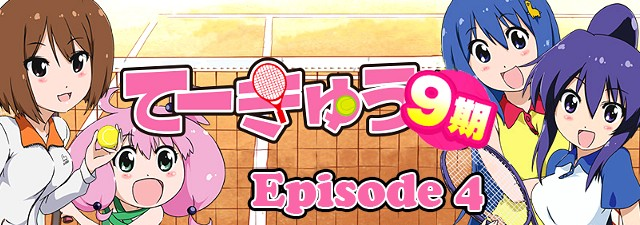
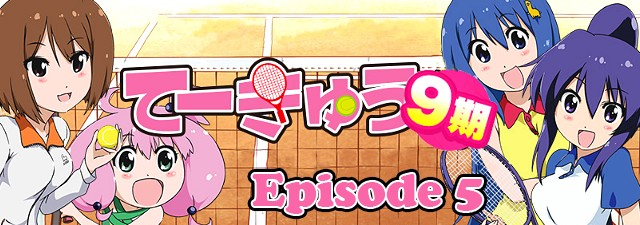
new release

Changed region(s): [[0.6875, 0.7467, 0.7812, 0.9644]]

diff --git a/2017-08-11.html b/2017-08-11.html
@@ -1,7 +1,7 @@
-<!DOCTYPE html>
+<!DOCTYPE html>
 <html lang="fr-FR">
 	<head>
-		<title>Teekyuu Saison 9 | Nobluesky Fansub</title>
+		<title>Teekyuu Saison 9 Ep 5 vostfr | Nobluesky Fansub</title>
 		<meta charset="utf-8" />
 		<meta name=viewport content="width=980">
 		<link rel="Shortcut Icon" type="image/x-icon" href="favicon.ico" />
@@ -37,42 +37,36 @@
 	<div id="article">
 		<div id="content">
 			<div class="post">
-				<h1 class="title">Teekyuu Saison 9</h1>
-				<div style="clear: both;">&nbsp;</div>
+				<h1 class="title">Teekyuu Saison 9 Ep 5 vostfr</h1>
+				<p class="meta"><span class="date">11 Août 2017</span><span class="posted">Posté par <a href="about.html#nobluesky">Nobluesky</a></span></p>
 				<div style="clear: both;">&nbsp;</div>
 				<div class="entry">
-					<img class="post-images" src="images/2017/teekyuu9.jpg" alt="" />
-					<p>12 épisodes de 2 min, Juillet 2017</p>
-					<p>Suite de la Saison 8</p>
-					<p>On ne présente plus cette série WTF qui revient encore et encore !</p>
+					<img class="post-images" src="images/2017/news8.jpg" alt="" />
+					<p>Bonjour à nos fidèles amateurs de gags !</p>
+					<p>Aujourd'hui, c'est la visite des clubs de l'école au programme. Et bien sûr, rien de bien normal dans ce tour d'horizon, n'oubliez pas à qui vous avez affaire :P</p>
+					<p>Merci à Yohan pour la relecture de cet épisode, lui aussi est au régime WTF forcé^^</p>
+					<p>Afin de vous rassurer, je n'oublie pas Sohryuden dont la synchronisation avance doucement dans un coin du PC. Selon toute vraisemblance, il devrait sortir dans les quatre semaines à venir, estimation au doigt mouillé à la louche !</p>
+					<p>À très bientôt pour la suite, et pour votre santé regardez un Teekyuu par semaine pour entretenir l'hilarité frapadingue.</p>
 					<h3>Téléchargements et streaming</h3>
-					Sur serveur :
-					<p class="links dl"><a href="http://ddl.nobluesub.com/teekyuu9.html" class="button-dl">Dédié</a></p>
-					<br>
-					Episode 01 :
-					<p class="links dl"><a href="http://jheberg.net/captcha/nobluesub-teekyuu-s9-01-hd-1280x720-x264/" class="button-dl">Jheberg</a></p>&nbsp; | &nbsp;
-					<p class="links dl"><a href="https://rutube.ru/video/c092a46987df527be2b77b3d520d1b5c/" class="button-dl">Rutube</a></p>&nbsp; | &nbsp;
-					<p class="links dl"><a href="https://mega.nz/#!2RszQYYY!QrL9GeKnNjek7_Wv1Qck5D8R2AaQArLwywk220u23wU" class="button-dl">Mega</a></p>
-					<br>
-					Episode 02 :
-					<p class="links dl"><a href="http://jheberg.net/captcha/nobluesub-teekyuu-s9-02-hd-1280x720-x264/" class="button-dl">Jheberg</a></p>&nbsp; | &nbsp;
-					<p class="links dl"><a href="https://rutube.ru/video/340ba2fe8cb65cd33588dcf618bb8770/" class="button-dl">Rutube</a></p>&nbsp; | &nbsp;
-					<p class="links dl"><a href="https://mega.nz/#!nJVQSJ5R!5vzscZLLfNFoNFEaGFLgPKmu4FY-VMCsdZlforc7N6I" class="button-dl">Mega</a></p>
-					<br>
-					Episode 03 :
-					<p class="links dl"><a href="http://jheberg.net/captcha/nobluesub-teekyuu-s9-03-hd-1280x720-x264/" class="button-dl">Jheberg</a></p>&nbsp; | &nbsp;
-					<p class="links dl"><a href="https://rutube.ru/video/8187fda3099762fe41605c6bb77fcb3a/" class="button-dl">Rutube</a></p>&nbsp; | &nbsp;
-					<p class="links dl"><a href="https://mega.nz/#!CdMUTDJQ!s4u8WTS0eljHrsXpDQFDb1lmnJkN_5WGocgsoTcZepk" class="button-dl">Mega</a></p>
-					<br>
-					Episode 04 :
-					<p class="links dl"><a href="http://jheberg.net/captcha/nobluesub-teekyuu-s9-04-hd-1280x720-x264/" class="button-dl">Jheberg</a></p>&nbsp; | &nbsp;
-					<p class="links dl"><a href="https://rutube.ru/video/93c05995e3a593766b2a73a36f2df73b/" class="button-dl">Rutube</a></p>&nbsp; | &nbsp;
-					<p class="links dl"><a href="https://mega.nz/#!iAlghRxT!g0bF8Dh81hWklqpHIhgW5J9POa75b7wtqpNtCliELnY" class="button-dl">Mega</a></p>
-					<br>
-					Episode 05 :
+					<p class="links dl"><a href="http://ddl.nobluesub.com/teekyuu9.html" class="button-dl">Dédié</a></p>&nbsp; | &nbsp;
 					<p class="links dl"><a href="http://jheberg.net/captcha/nobluesub-teekyuu-s9-05-hd-1280x720-x264/" class="button-dl">Jheberg</a></p>&nbsp; | &nbsp;
 					<p class="links dl"><a href="https://rutube.ru/video/63c43b9879e9030336d4e76e233691e8/" class="button-dl">Rutube</a></p>&nbsp; | &nbsp;
 					<p class="links dl"><a href="https://mega.nz/#!XJcGnB4b!PxCiSq1XVHiC-DlPx_g1pZD2jfIF9_sZZ19WQaeDGAQ" class="button-dl">Mega</a></p>
+					<h3>Commentaires</h3>
+					<div id="disqus_thread"></div>
+					<script type="text/javascript">
+						/* * * CONFIGURATION VARIABLES: EDIT BEFORE PASTING INTO YOUR WEBPAGE * * */
+						var disqus_shortname = 'noblueskyfansub'; // required: replace example with your forum shortname
+
+						/* * * DON'T EDIT BELOW THIS LINE * * */
+						(function() {
+							var dsq = document.createElement('script'); dsq.type = 'text/javascript'; dsq.async = true;
+							dsq.src = '//' + disqus_shortname + '.disqus.com/embed.js';
+							(document.getElementsByTagName('head')[0] || document.getElementsByTagName('body')[0]).appendChild(dsq);
+						})();
+					</script>
+					<noscript>Activez javascript pour voir les commentaires.</noscript>
+					<a href="http://disqus.com" class="dsq-brlink">commentaires propulsés par <span class="logo-disqus">Disqus</span></a>
 				</div>
 			</div>
 			<div style="clear: both;">&nbsp;</div>

diff --git a/index.html b/index.html
@@ -35,7 +35,7 @@
 <div id="page-wrapper">
 	<div class="slider-wrapper theme-default">
 		<div id="slider" class="nivoSlider">
-			<a href="2017-08-06.html"><img src="images/img02.jpg" alt="" /></a><a href="2017-06-28.html"><img src="images/img01.jpg" alt="" /></a>
+			<a href="2017-08-11.html"><img src="images/img02.jpg" alt="" /></a><a href="2017-06-28.html"><img src="images/img01.jpg" alt="" /></a>
 		</div>
 	</div>
 <script type="text/javascript">
@@ -59,6 +59,20 @@
 				<div style="clear: both;">&nbsp;</div>
 				<div class="entry">
 					<p>Bienvenue sur le site de la Nobluesky Fansub !</p>
+				</div>
+			</div>
+			<div class="post">
+				<h1 class="title"><a href="2017-08-11.html">Teekyuu Saison 9 Ep 5 vostfr</a></h1>
+				<p class="meta"><span class="date">11 Août 2017</span><span class="posted">Posté par <a href="about.html#nobluesky">Nobluesky</a></span></p>
+				<p class="comcount"><a href="https://nobluesub.com/2017-08-11.html#disqus_thread">Commentaires</a></p>
+				<div style="clear: both;">&nbsp;</div>
+				<div class="entry">
+					<img class="post-images" src="images/2017/news8.jpg" alt="" />
+					<p>Bonjour à nos fidèles amateurs de gags !</p>
+					<p>Aujourd'hui, c'est la visite des clubs de l'école au programme. Et bien sûr, rien de bien normal dans ce tour d'horizon, n'oubliez pas à qui vous avez affaire :P</p>
+					<p>Merci à Yohan pour la relecture de cet épisode, lui aussi est au régime WTF forcé^^</p>
+					<p>Afin de vous rassurer, je n'oublie pas Sohryuden...</p>
+					<p class="links"><a href="2017-08-11.html" class="button">Lire la suite</a></p>
 				</div>
 			</div>
 			<div class="post">
@@ -115,18 +129,6 @@
 					<p>Aujourd'hui, un épisode qui passe des bourre-pifs au gore, car les frères affrontent un docteur maniaque qui ne manque pas de méthodes peu scrupuleuses. Bref, âmes trop sensibles s'abstenir, même si je trouve personnellement ça très drôle et caricatural. Quoi, je suis un grand malade ?? Nan, c'est faux !!</p>
 					<p>Je vous rappelle que nos épisodes sont disponibles au téléchargement sur le serveur dédié dans le menu du site...</p>
 					<p class="links"><a href="2017-06-28.html" class="button">Lire la suite</a></p>
-				</div>
-			</div>
-			<div class="post">
-				<h1 class="title"><a href="2017-04-30.html">Sohryuden 04 vostfr</a></h1>
-				<p class="meta"><span class="date">30 Avril 2017</span><span class="posted">Posté par <a href="about.html#nobluesky">Nobluesky</a></span></p>
-				<p class="comcount"><a href="https://nobluesub.com/2017-04-30.html#disqus_thread">Commentaires</a></p>
-				<div style="clear: both;">&nbsp;</div>
-				<div class="entry">
-					<img class="post-images" src="images/2017/news3.jpg" alt="" />
-					<p>Salut à tous, et bienvenue à bord après ce passage de pétole !</p>
-					<p>Un parc d'attraction, une fille qui crie tout le temps, une belle allumeuse, des méchants pas fins qui tirent très mal, des héros flegmatiques, une "filature" en hélico...</p>
-					<p class="links"><a href="2017-04-30.html" class="button">Lire la suite</a></p>
 				</div>
 			</div>
 			<div id="button-page-wrapper">

diff --git a/page2.html b/page2.html
@@ -31,7 +31,7 @@
 <div id="page-wrapper">
 	<div class="slider-wrapper theme-default">
 		<div id="slider" class="nivoSlider">
-			<a href="2017-08-06.html"><img src="images/img02.jpg" alt="" /></a><a href="2017-06-28.html"><img src="images/img01.jpg" alt="" /></a>
+			<a href="2017-08-11.html"><img src="images/img02.jpg" alt="" /></a><a href="2017-06-28.html"><img src="images/img01.jpg" alt="" /></a>
 		</div>
 	</div>
 <script type="text/javascript">
@@ -50,6 +50,18 @@
 </div>
 	<div id="feed">
 		<div id="content">
+			<div class="post">
+				<h1 class="title"><a href="2017-04-30.html">Sohryuden 04 vostfr</a></h1>
+				<p class="meta"><span class="date">30 Avril 2017</span><span class="posted">Posté par <a href="about.html#nobluesky">Nobluesky</a></span></p>
+				<p class="comcount"><a href="https://nobluesub.com/2017-04-30.html#disqus_thread">Commentaires</a></p>
+				<div style="clear: both;">&nbsp;</div>
+				<div class="entry">
+					<img class="post-images" src="images/2017/news3.jpg" alt="" />
+					<p>Salut à tous, et bienvenue à bord après ce passage de pétole !</p>
+					<p>Un parc d'attraction, une fille qui crie tout le temps, une belle allumeuse, des méchants pas fins qui tirent très mal, des héros flegmatiques, une "filature" en hélico...</p>
+					<p class="links"><a href="2017-04-30.html" class="button">Lire la suite</a></p>
+				</div>
+			</div>
 			<div class="post">
 				<h1 class="title"><a href="2017-02-21.html">Sohryuden 03 vostfr</a></h1>
 				<p class="meta"><span class="date">21 Février 2017</span><span class="posted">Posté par <a href="about.html#nobluesky">Nobluesky</a></span></p>
@@ -101,20 +113,6 @@
 					<p>J'espère que vous avez bien mangé, comme dans cette animé qui donne souvent faim à ceux qui travaillent dessus ! Car les filles du club de tennis sont de vraies morfales, ne l'oubliez pas :P</p>
 					<p>En attendant la saison 9 qui est pratiquement certaine, je me concentre sur ma tâche...</p>
 					<p class="links"><a href="2016-12-26.html" class="button">Lire la suite</a></p>
-				</div>
-			</div>
-			<div class="post">
-				<h1 class="title"><a href="2016-12-16.html">Teekyuu Saison 8 Ep 11 vostfr</a></h1>
-				<p class="meta"><span class="date">16 Décembre 2016</span><span class="posted">Posté par <a href="about.html#nobluesky">Nobluesky</a></span></p>
-				<p class="comcount"><a href="https://nobluesub.com/2016-12-16.html#disqus_thread">Commentaires</a></p>
-				<div style="clear: both;">&nbsp;</div>
-				<div class="entry">
-					<img class="post-images" src="images/2016/news35.jpg" alt="" />
-					<p>Bonjour,</p>
-					<p>voici le 11e épisode de Teekyuu ! Aujourd'hui, un marathon un peu particulier organisé par le Lycée Kameido.</p>
-					<p>Il n'y avait pas trop de travail cette fois, ce qui me permet d'être en avance \o/</p>
-					<p>Suivront bientôt les V2 des épisodes 9 à 11 si nécessaire...</p>
-					<p class="links"><a href="2016-12-16.html" class="button">Lire la suite</a></p>
 				</div>
 			</div>
 			<div id="button-page-wrapper">

diff --git a/archives.html b/archives.html
@@ -58,6 +58,7 @@
 					<div>
 					<!-- here comes spoiler content -->
 					<div style="clear: both;">&nbsp;</div>
+					<p><a href="2016-12-16.html" target="_blank" >Teekyuu Saison 8 Ep 11 vostfr</a></p>
 					<p><a href="2016-12-11.html" target="_blank" >Teekyuu Saison 8 Ep 10 vostfr</a></p>
 					<p><a href="2016-12-04.html" target="_blank" >Teekyuu Saison 8 Ep 9 vostfr</a></p>
 					<p><a href="2016-11-27.html" target="_blank" >Teekyuu Saison 8 Ep 7 à 8 vostfr</a></p>

diff --git a/sidebar.html b/sidebar.html
@@ -38,9 +38,9 @@
 				</li>
 			</ul>
 			<ul id="avancements" style="list-style: none!important;">
-				<li>Teekyuu S9 Ep 05 : 50%
+				<li>Teekyuu S9 Ep 05 : 100%
 					<div class="progress-bar blue stripes" title="Progression" >
-					<span style="width: 50%"></span>
+					<span style="width: 100%"></span>
 					</div>
 				</li>
 			</ul>
